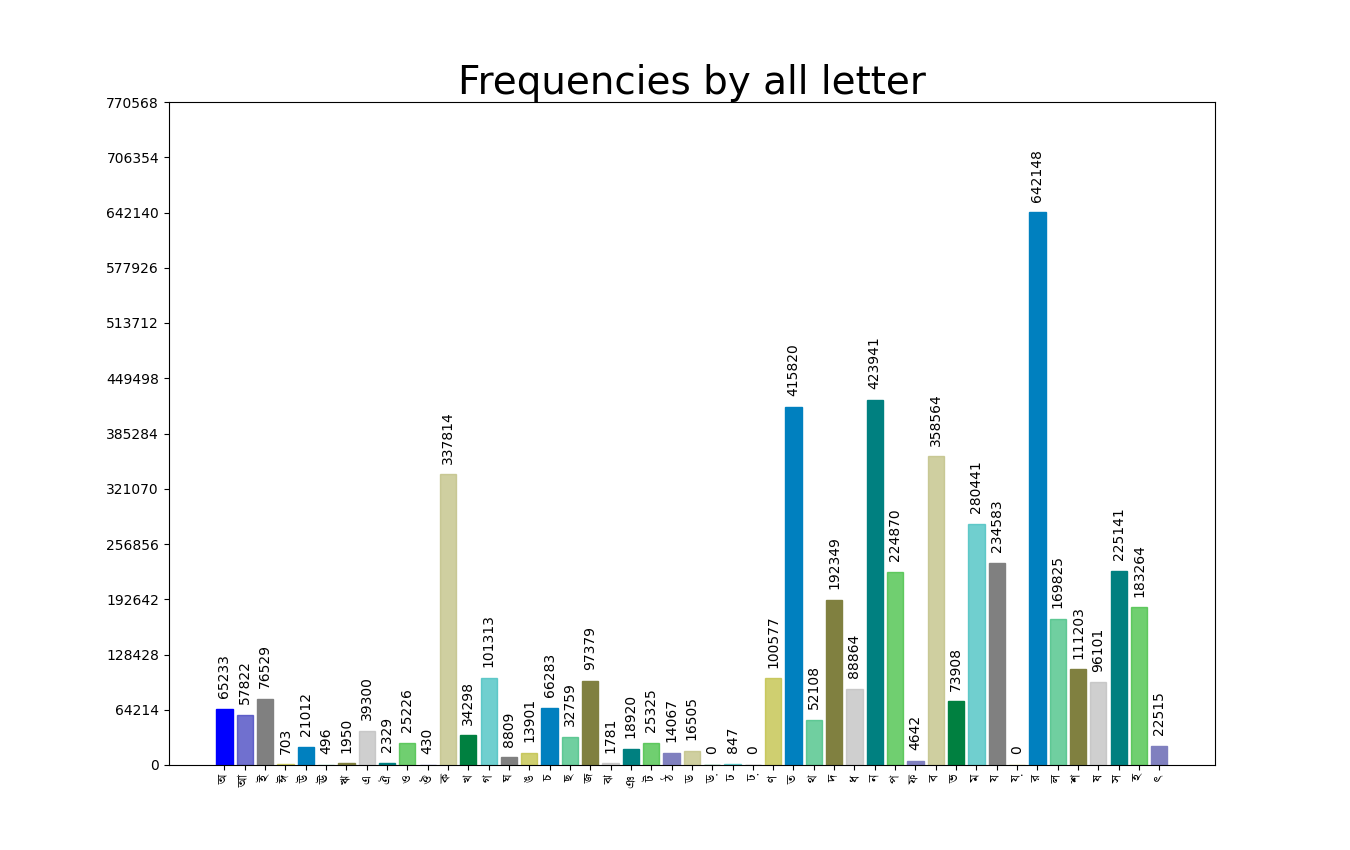
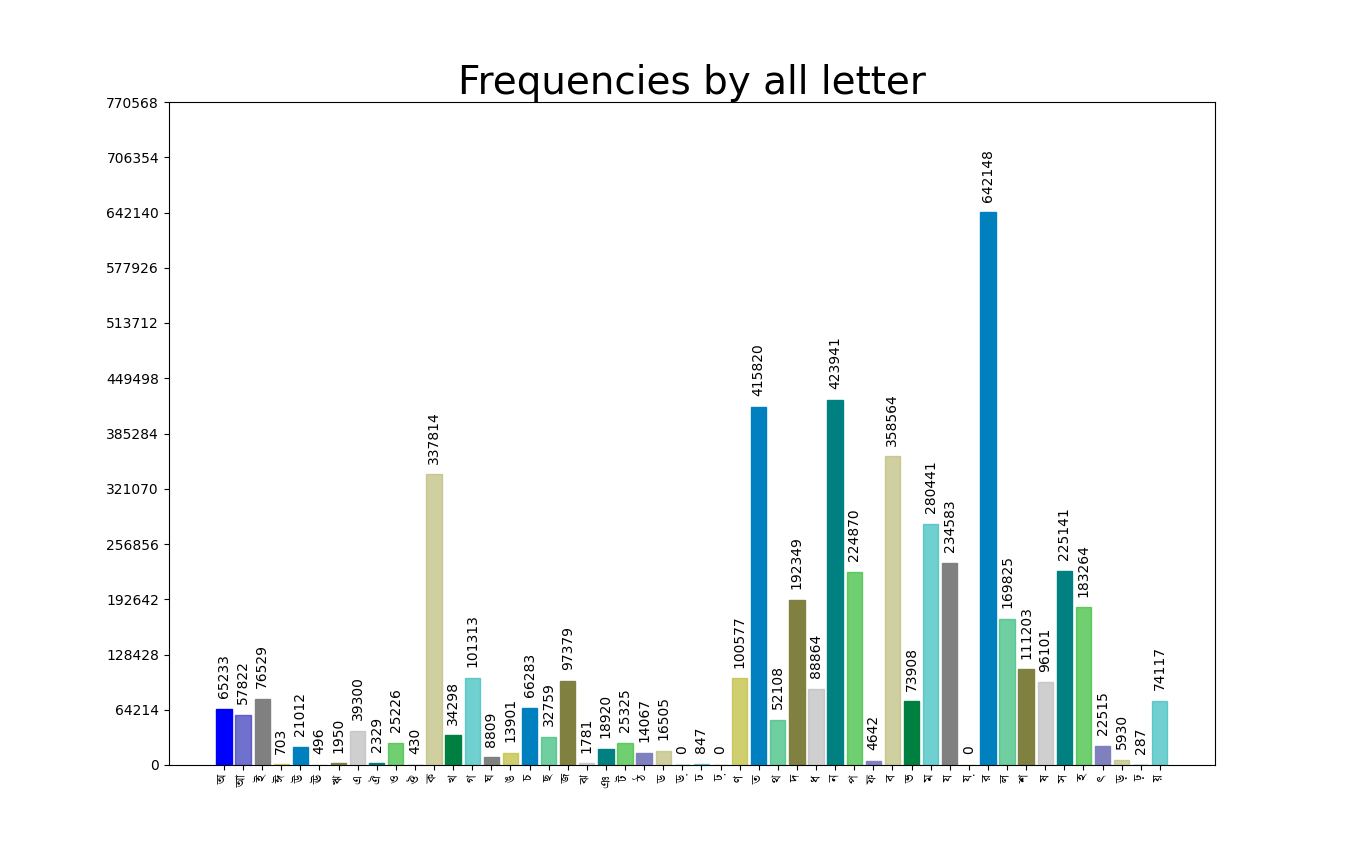
Output updated

Changed region(s): [[0.1556, 0.1835, 0.8711, 0.9176]]

diff --git a/DataProcessing.py b/DataProcessing.py
@@ -257,29 +257,29 @@ dp = DataProcessor(filename='contents.csv', columns=['Index', 'Chapter', 'Title'
 # List of all Bengali characters including letters and numbers
 BengaliLetterList = ['অ', 'আ', 'ই', 'ঈ', 'উ', 'ঊ', 'ঋ', 'এ', 'ঐ', 'ও', 'ঔ', 'ক', 'খ', 'গ', 'ঘ', 'ঙ', 'চ', 'ছ', 'জ', 'ঝ',
                      'ঞ', 'ট', 'ঠ', 'ড', 'ঢ', 'ণ', 'ত', 'থ', 'দ', 'ধ', 'ন', 'প', 'ফ', 'ব', 'ভ', 'ম', 'য', 'র', 'ল', 'শ',
-                     'ষ', 'স', 'হ', 'ড়', 'ঢ়', 'য়','ৎ']
+                     'ষ', 'স', 'হ', 'ড়', 'ঢ়', 'য়', 'ৎ', 'ড়', 'ঢ়', 'য়']
 
-# Unigram
-plot_from_dictionary(dp.count_token_frequencies(1, minThreshold=1, start=-20), title='Unigram (Top 20 Results)',
-                     save_to_device=True)
-
-# Bigram
-plot_from_dictionary(dp.count_token_frequencies(2, minThreshold=1, start=-20), title='Bigram (Top 20 Results)',
-                     save_to_device=True)
-
-# Trigram
-plot_from_dictionary(dp.count_token_frequencies(3, minThreshold=2, start=-20), title='Trigram (Top 20 Results)',
-                     bottom=0.3,
-                     save_to_device=True)
-
-# Tetragram
-plot_from_dictionary(dp.count_token_frequencies(4, minThreshold=2, start=-20), title='Tetragram (Top 20 Results)',
-                     bottom=0.3,
-                     save_to_device=True)
-
-# Pentagram
-plot_from_dictionary(dp.count_token_frequencies(5, minThreshold=2, start=-20), title='Pentagram (Top 20 Results)',
-                     bottom=0.3, save_to_device=True)
+# # Unigram
+# plot_from_dictionary(dp.count_token_frequencies(1, minThreshold=1, start=-20), title='Unigram (Top 20 Results)',
+#                      save_to_device=True)
+#
+# # Bigram
+# plot_from_dictionary(dp.count_token_frequencies(2, minThreshold=1, start=-20), title='Bigram (Top 20 Results)',
+#                      save_to_device=True)
+#
+# # Trigram
+# plot_from_dictionary(dp.count_token_frequencies(3, minThreshold=2, start=-20), title='Trigram (Top 20 Results)',
+#                      bottom=0.3,
+#                      save_to_device=True)
+#
+# # Tetragram
+# plot_from_dictionary(dp.count_token_frequencies(4, minThreshold=2, start=-20), title='Tetragram (Top 20 Results)',
+#                      bottom=0.3,
+#                      save_to_device=True)
+#
+# # Pentagram
+# plot_from_dictionary(dp.count_token_frequencies(5, minThreshold=2, start=-20), title='Pentagram (Top 20 Results)',
+#                      bottom=0.3, save_to_device=True)
 
 # Number of words start with a particular letter
 plot_from_dictionary(dp.count_letter_frequencies(BengaliLetterList, count_type='First letter'),
@@ -290,11 +290,11 @@ plot_from_dictionary(dp.count_letter_frequencies(BengaliLetterList, count_type='
                      title='Frequencies by all letter', save_to_device=True)
 
 # Count number of words for a particular word length (without vowels)
-plot_from_dictionary(dp.count_word_length_frequencies(BengaliLetterList, count_vowel=False),
-                     title='Word count by number of letters Without vowels', save_to_device=True)
-
-# Count number of words for a particular word length (with vowels)
-plot_from_dictionary(dp.count_word_length_frequencies(BengaliLetterList, count_vowel=True),
-                     title='Word count by number of letters With vowels ', save_to_device=True)
+# plot_from_dictionary(dp.count_word_length_frequencies(BengaliLetterList, count_vowel=False),
+#                      title='Word count by number of letters Without vowels', save_to_device=True)
+#
+# # Count number of words for a particular word length (with vowels)
+# plot_from_dictionary(dp.count_word_length_frequencies(BengaliLetterList, count_vowel=True),
+#                      title='Word count by number of letters With vowels ', save_to_device=True)
 
 print(dp.number_of_chars / dp.number_of_words)
